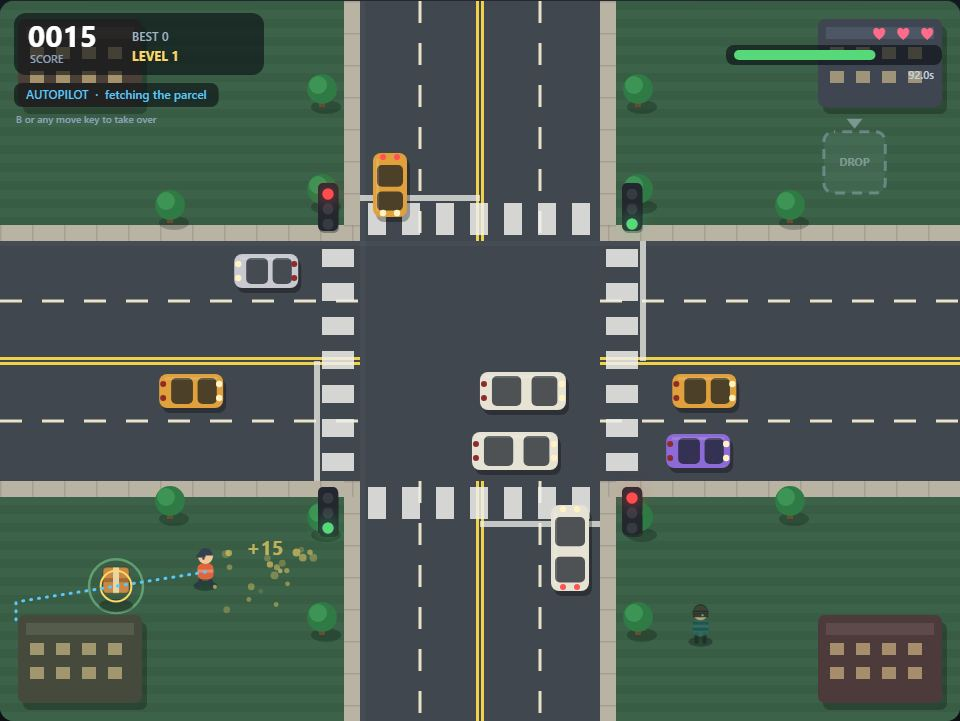
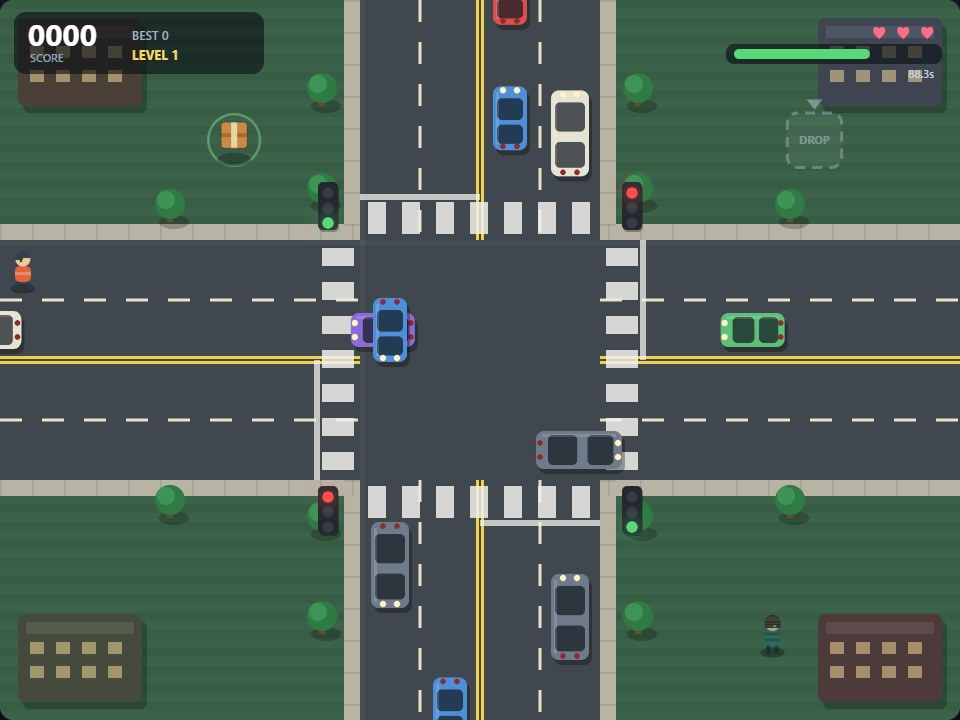
Drop the Cross-Road Chaos autopilot from the project card
The autopilot was removed from the game. New screenshot without its overlay.

diff --git a/src/components/Projects.jsx b/src/components/Projects.jsx
@@ -46,13 +46,12 @@ export const projects = [
   {
     title: 'Cross-Road Chaos',
     image: '/projects/cross-road-chaos.jpg',
-    imageAlt: 'Cross-Road Chaos intersection with the autopilot planning its route',
+    imageAlt: 'Cross-Road Chaos intersection with traffic, the courier and a parcel waiting to be picked up',
     links: [
       { org: 'Live Demo', link: 'https://cross-road-chaos.vercel.app' },
-      { org: 'Watch Autopilot', link: 'https://cross-road-chaos.vercel.app/?autopilot=1' },
     ],
-    desc: 'A browser arcade game where you play a courier crossing four lanes of traffic against a clock, dodging rival couriers and a thief who steals your parcel off the ground. Written in plain JavaScript on HTML5 Canvas with no build step and no dependencies. Press B and an autopilot takes over: a planning bot that forecasts every vehicle 1.8 s ahead using the game’s own signal and braking rules, then picks the safest heading toward its goal, with an overlay that draws its route and the traffic it is watching. In a headless benchmark against the real game code it never lost a 400-second run. It also ships with a password-protected analytics dashboard: a serverless collector writes anonymous visit and run statistics to Neon Postgres, grouping visitors by a daily-rotating hash so no stored row points back at a person.',
-    tags: ['HTML', 'CSS', 'JavaScript', 'Canvas API', 'Path Planning', 'Node.js', 'Vercel Functions', 'PostgreSQL', 'NeonDB'],
+    desc: 'A browser arcade game where you play a courier crossing four lanes of traffic against a clock, dodging rival couriers and a thief who steals your parcel off the ground. Written in plain JavaScript on HTML5 Canvas with no build step and no dependencies. It also ships with a password-protected analytics dashboard: a serverless collector writes anonymous visit and run statistics to Neon Postgres, grouping visitors by a daily-rotating hash so no stored row points back at a person.',
+    tags: ['HTML', 'CSS', 'JavaScript', 'Canvas API', 'Node.js', 'Vercel Functions', 'PostgreSQL', 'NeonDB'],
   },
   {
     title: '3-Tier Serverless Web App on AWS',
